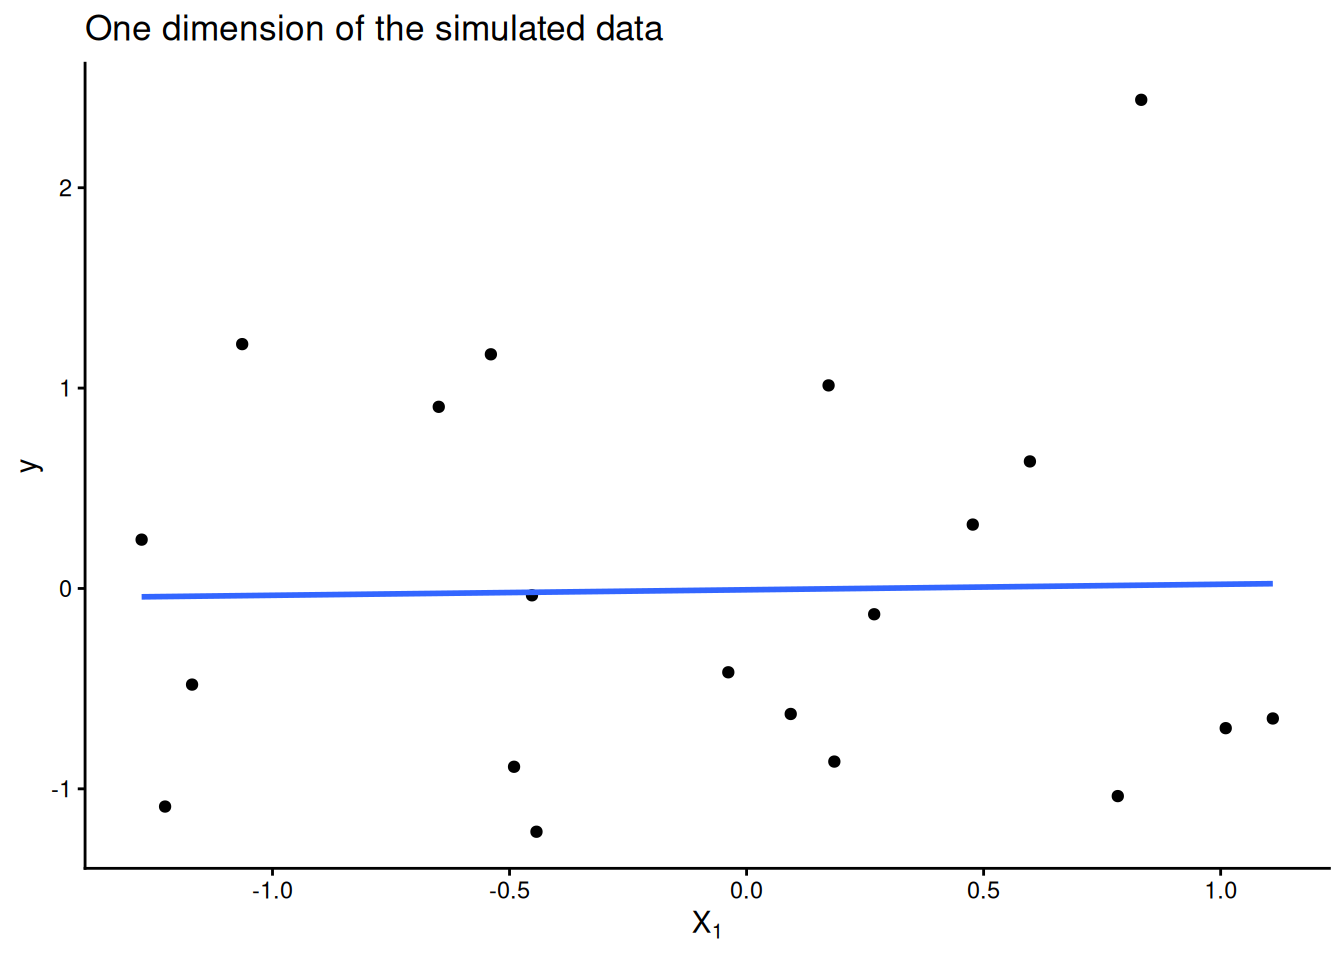
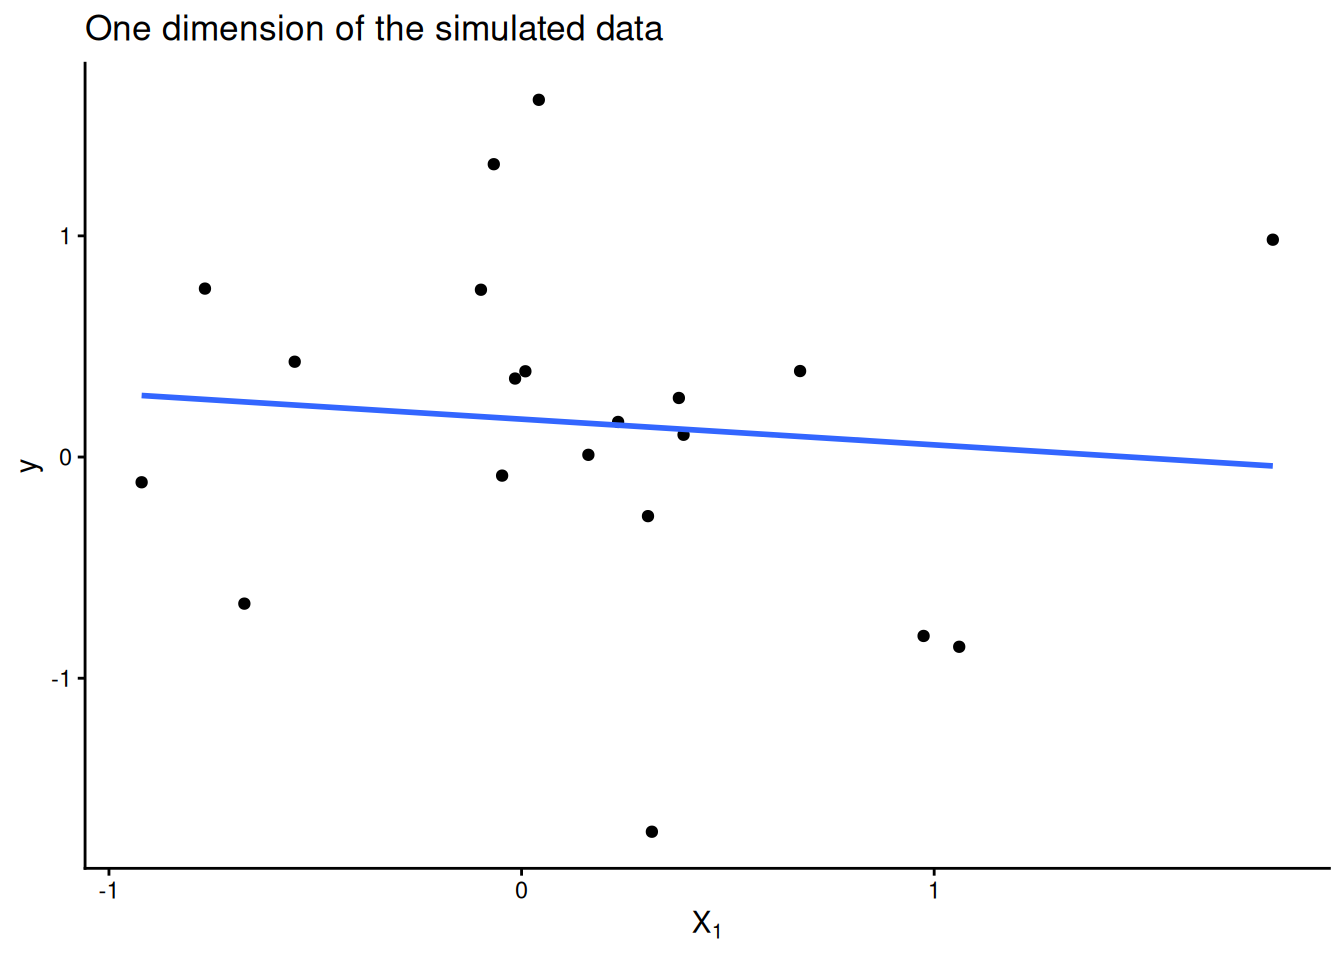
chore: update rendered assets

diff --git a/docs/notes/2017-10-18_gradient-checks/index.html b/docs/notes/2017-10-18_gradient-checks/index.html
@@ -171,15 +171,15 @@ pre > code.sourceCode > span > a:first-child::before { text-decoration: underlin
 <span id="cb5-5"><a href="#cb5-5" aria-hidden="true" tabindex="-1"></a></span>
 <span id="cb5-6"><a href="#cb5-6" aria-hidden="true" tabindex="-1"></a>num_grad</span></code></pre></div><button title="Copy to Clipboard" class="code-copy-button"><i class="bi"></i></button></div>
 <div class="cell-output cell-output-stdout">
-<pre><code>[1] 1.482956 2.322438</code></pre>
+<pre><code>[1] 0.05782264 2.09262212</code></pre>
 </div>
 <div class="code-copy-outer-scaffold"><div class="sourceCode cell-code" id="cb7"><pre class="sourceCode r code-with-copy"><code class="sourceCode r"><span id="cb7-1"><a href="#cb7-1" aria-hidden="true" tabindex="-1"></a>ana_grad</span></code></pre></div><button title="Copy to Clipboard" class="code-copy-button"><i class="bi"></i></button></div>
 <div class="cell-output cell-output-stdout">
-<pre><code>[1] 1.482956 2.322438</code></pre>
+<pre><code>[1] 0.05782263 2.09262212</code></pre>
 </div>
 <div class="code-copy-outer-scaffold"><div class="sourceCode cell-code" id="cb9"><pre class="sourceCode r code-with-copy"><code class="sourceCode r"><span id="cb9-1"><a href="#cb9-1" aria-hidden="true" tabindex="-1"></a><span class="fu">relative_error</span>(num_grad, ana_grad)</span></code></pre></div><button title="Copy to Clipboard" class="code-copy-button"><i class="bi"></i></button></div>
 <div class="cell-output cell-output-stdout">
-<pre><code>[1]  2.022684e-08 -1.931496e-08</code></pre>
+<pre><code>[1]  1.465330e-07 -1.003646e-09</code></pre>
 </div>
 </div>
 <p>The relative error is small, and we can feel confident that our implementation of the gradient is correct.</p>

diff --git a/docs/styles.css b/docs/styles.css
@@ -120,6 +120,7 @@ h2 {
   margin-bottom: 0.55rem;
   padding-bottom: 0.16rem;
   border-bottom: 1px solid var(--border);
+  text-align: center;
 }
 
 h3 {
